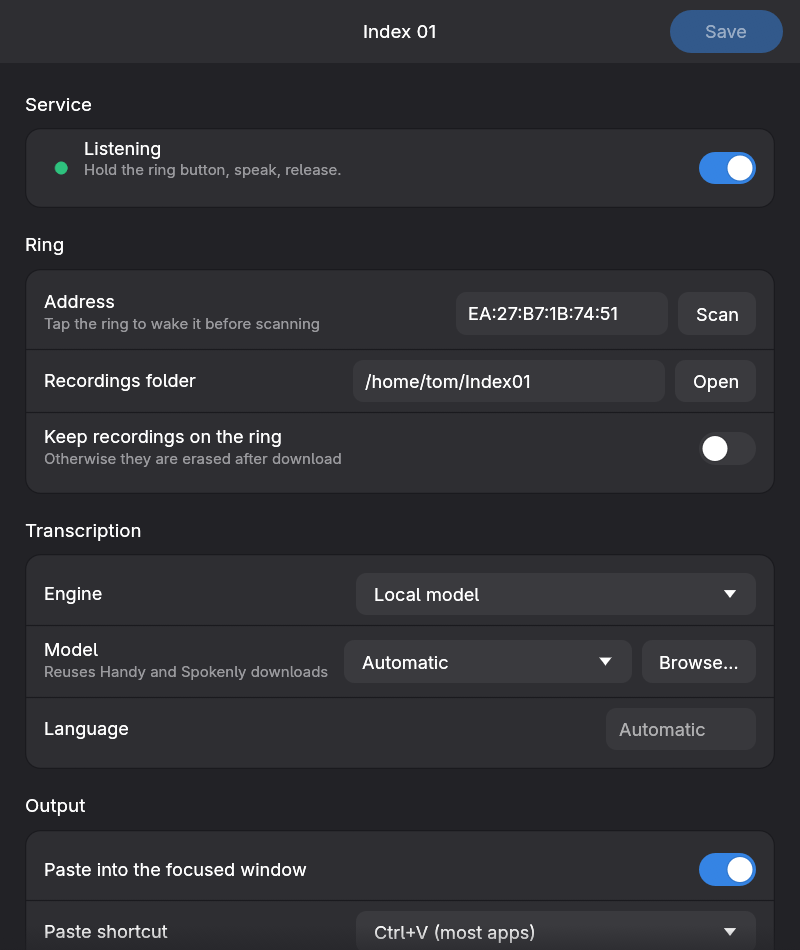
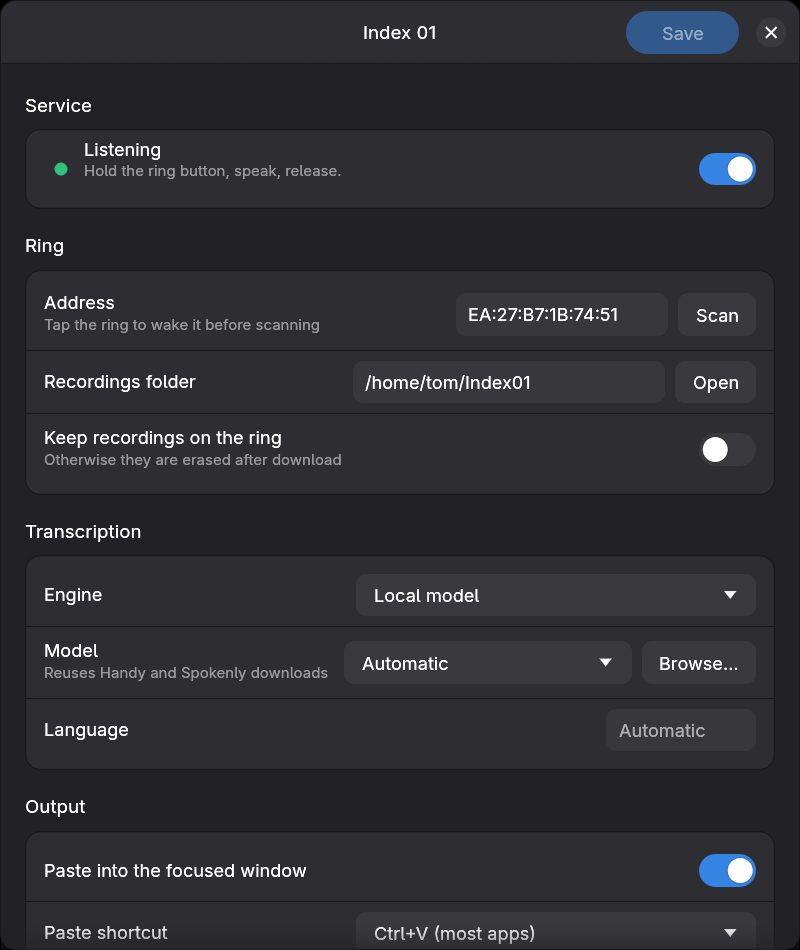
Settings: draw our own window frame (rounded corners, border, header bar with close/drag/maximize, edge resize)

diff --git a/src/settings.rs b/src/settings.rs
@@ -33,7 +33,11 @@ pub fn run() -> eframe::Result {
             .with_title("Index 01")
             .with_app_id("index01-tray")
             .with_inner_size([640.0, 760.0])
-            .with_min_inner_size([420.0, 400.0]),
+            .with_min_inner_size([420.0, 400.0])
+            // GNOME has no server-side decorations; winit's fallback frame looks foreign.
+            // We draw our own: rounded corners, border, header bar with close button.
+            .with_decorations(false)
+            .with_transparent(true),
         ..Default::default()
     };
     eframe::run_native(
@@ -117,36 +121,99 @@ impl eframe::App for Settings {
 
         debug_screenshot(ui.ctx());
         let p = style::Palette::get(ui.ctx());
-        egui::Frame::new().fill(p.window).show(ui, |ui| {
-            ui.set_min_size(ui.available_size());
-            self.header(ui);
-            egui::ScrollArea::vertical()
-                .auto_shrink(false)
-                .show(ui, |ui| {
-                    // libadwaita "clamp": centred column, max 600 px.
-                    let pad = ((ui.available_width() - 600.0) / 2.0).max(18.0);
-                    egui::Frame::new()
-                        .inner_margin(egui::Margin {
-                            left: pad as i8,
-                            right: pad as i8,
-                            top: 4,
-                            bottom: 24,
-                        })
-                        .show(ui, |ui| self.body(ui));
-                });
-        });
+        let maximized = ui.input(|i| i.viewport().maximized.unwrap_or(false));
+        let radius = if maximized { 0 } else { 12 };
+        let window = ui.max_rect();
+        egui::Frame::new()
+            .fill(p.window)
+            .stroke(egui::Stroke::new(1.0, p.card_border))
+            .corner_radius(radius)
+            .show(ui, |ui| {
+                ui.set_min_size(ui.available_size());
+                self.header(ui, radius);
+                egui::ScrollArea::vertical()
+                    .auto_shrink(false)
+                    .show(ui, |ui| {
+                        // libadwaita "clamp": centred column, max 600 px.
+                        let pad = ((ui.available_width() - 600.0) / 2.0).max(18.0);
+                        egui::Frame::new()
+                            .inner_margin(egui::Margin {
+                                left: pad as i8,
+                                right: pad as i8,
+                                top: 4,
+                                bottom: 24,
+                            })
+                            .show(ui, |ui| self.body(ui));
+                    });
+            });
+        if !maximized {
+            resize_handles(ui, window);
+        }
+    }
+
+    fn clear_color(&self, _visuals: &egui::Visuals) -> [f32; 4] {
+        [0.0; 4] // transparent, so the rounded corners show the desktop
+    }
+}
+
+/// Edge/corner resize for an undecorated window.
+fn resize_handles(ui: &mut egui::Ui, r: egui::Rect) {
+    use egui::{CursorIcon as C, ResizeDirection as D};
+    let Some(pos) = ui.input(|i| i.pointer.hover_pos()) else {
+        return;
+    };
+    let m = 6.0;
+    let (l, rt, t, b) = (
+        pos.x < r.left() + m,
+        pos.x > r.right() - m,
+        pos.y < r.top() + m,
+        pos.y > r.bottom() - m,
+    );
+    let dir = match (l, rt, t, b) {
+        (true, _, true, _) => (D::NorthWest, C::ResizeNorthWest),
+        (_, true, true, _) => (D::NorthEast, C::ResizeNorthEast),
+        (true, _, _, true) => (D::SouthWest, C::ResizeSouthWest),
+        (_, true, _, true) => (D::SouthEast, C::ResizeSouthEast),
+        (true, ..) => (D::West, C::ResizeWest),
+        (_, true, ..) => (D::East, C::ResizeEast),
+        (_, _, true, _) => (D::North, C::ResizeNorth),
+        (.., true) => (D::South, C::ResizeSouth),
+        _ => return,
+    };
+    ui.ctx().set_cursor_icon(dir.1);
+    if ui.input(|i| i.pointer.primary_pressed()) {
+        ui.ctx()
+            .send_viewport_cmd(egui::ViewportCommand::BeginResize(dir.0));
     }
 }
 
 impl Settings {
-    /// Header bar: title, unsaved-changes actions.
-    fn header(&mut self, ui: &mut egui::Ui) {
+    /// Header bar, which is also the title bar: drag to move, double-click to maximize.
+    fn header(&mut self, ui: &mut egui::Ui, radius: u8) {
         let p = style::Palette::get(ui.ctx());
-        egui::Frame::new()
+        let resp = egui::Frame::new()
             .fill(p.card)
-            .inner_margin(egui::Margin::symmetric(14, 8))
+            .corner_radius(egui::CornerRadius {
+                nw: radius,
+                ne: radius,
+                sw: 0,
+                se: 0,
+            })
+            .inner_margin(egui::Margin::symmetric(10, 8))
             .show(ui, |ui| {
                 ui.set_width(ui.available_width());
+                // Background drag area, registered first so the buttons on top win.
+                let bar = ui.max_rect().expand2(egui::vec2(10.0, 8.0));
+                let drag =
+                    ui.interact(bar, ui.scope_id().with("titlebar"), egui::Sense::click_and_drag());
+                if drag.drag_started_by(egui::PointerButton::Primary) {
+                    ui.ctx().send_viewport_cmd(egui::ViewportCommand::StartDrag);
+                }
+                if drag.double_clicked() {
+                    let max = ui.input(|i| i.viewport().maximized.unwrap_or(false));
+                    ui.ctx()
+                        .send_viewport_cmd(egui::ViewportCommand::Maximized(!max));
+                }
                 ui.horizontal(|ui| {
                     ui.set_min_height(34.0);
                     let dirty = self.cfg != self.saved;
@@ -155,6 +222,10 @@ impl Settings {
                         self.message = None;
                     }
                     ui.with_layout(egui::Layout::right_to_left(egui::Align::Center), |ui| {
+                        if close_button(ui).clicked() {
+                            ui.ctx().send_viewport_cmd(egui::ViewportCommand::Close);
+                        }
+                        ui.add_space(6.0);
                         if style::action_button(ui, "Save", p.accent, dirty).clicked() {
                             self.save();
                         }
@@ -163,16 +234,17 @@ impl Settings {
                         }
                     });
                 });
-            });
-        let r = ui.min_rect();
+            })
+            .response;
+        let r = resp.rect;
         ui.painter().hline(
             r.x_range(),
             r.bottom(),
             egui::Stroke::new(1.0, p.card_border),
         );
-        // Window title, centred over the header like a GTK header bar.
+        // Window title, centred like a GTK header bar.
         ui.painter().text(
-            egui::pos2(r.center().x, r.top() + 25.0),
+            r.center(),
             egui::Align2::CENTER_CENTER,
             "Index 01",
             egui::FontId::new(15.0, egui::FontFamily::Name("bold".into())),
@@ -530,4 +602,26 @@ fn debug_screenshot(ctx: &egui::Context) {
             }),
         ));
     }
+}
+
+/// GNOME-style round close button (the ✕ is drawn; Adwaita Sans lacks the glyph).
+fn close_button(ui: &mut egui::Ui) -> egui::Response {
+    let p = style::Palette::get(ui.ctx());
+    let (rect, resp) = ui.allocate_exact_size(egui::vec2(24.0, 24.0), egui::Sense::click());
+    let fill = if resp.is_pointer_button_down_on() {
+        p.control_hover.gamma_multiply(1.3)
+    } else if resp.hovered() {
+        p.control_hover
+    } else {
+        p.control
+    };
+    let c = rect.center();
+    ui.painter().circle_filled(c, 12.0, fill);
+    let s = egui::Stroke::new(1.6, p.fg);
+    let d = 4.0;
+    ui.painter()
+        .line_segment([c + egui::vec2(-d, -d), c + egui::vec2(d, d)], s);
+    ui.painter()
+        .line_segment([c + egui::vec2(-d, d), c + egui::vec2(d, -d)], s);
+    resp.on_hover_text("Close")
 }
